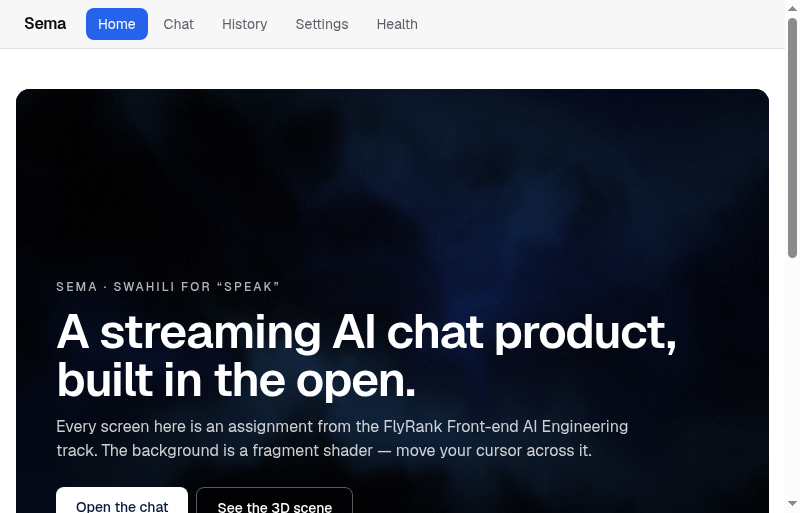
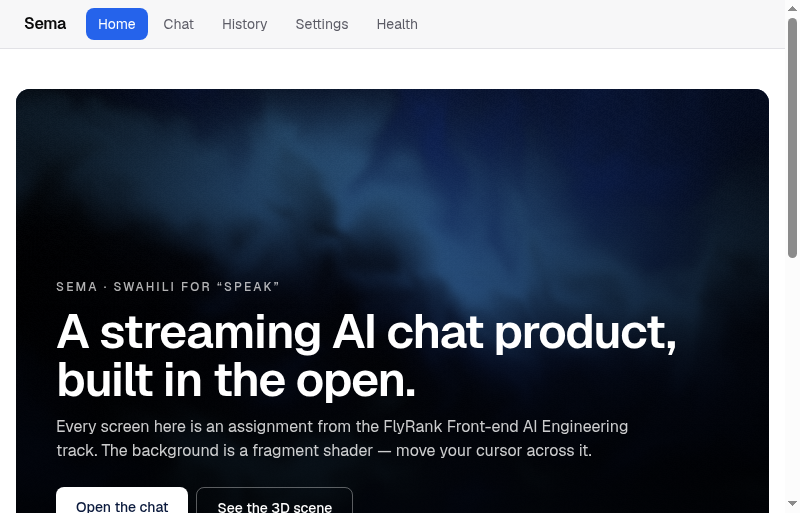
docs: document the shader hero

diff --git a/README.md b/README.md
@@ -67,6 +67,46 @@ MIT — see [LICENSE](LICENSE).
 
 
 
+
+## Shader hero
+
+The home page hero is a GLSL fragment shader on raw WebGL.
+Source: [`components/shader/aurora.frag.ts`](components/shader/aurora.frag.ts)
+(commented block by block) · renderer:
+[`components/shader/shader-hero.tsx`](components/shader/shader-hero.tsx)
+
+![The shader hero](docs/hero.png)
+
+**No three.js.** The scene is one fullscreen triangle and one fragment shader,
+so an engine would add ~265 KB gzipped to draw what the platform draws in about
+60 lines. The component is roughly 2 KB.
+
+**Uniforms — all three.** `u_resolution` normalises coordinates against the
+short edge so the pattern does not stretch when the window changes shape;
+`u_time` advances the flow; `u_mouse` leans the field toward the cursor,
+clamped small so it reads as a response rather than the image sliding about.
+
+**How it works.** A hash gives repeatable pseudo-randomness, value noise
+smooths it, and fbm stacks four octaves for large shape plus fine detail. The
+key move is *domain warping*: fbm is sampled at a position already displaced by
+another fbm, which is what turns smooth blobs into folded, curtain-like
+structure. A sine across the vertical axis with the warped noise added to its
+phase gives the bands; a tighter power of the same term gives the bright
+leading edge that reads as "aurora" rather than "blue gradient". Grain on top
+breaks up 8-bit banding across the slow gradient.
+
+**Fallback and perf, in one line:** device pixel ratio capped at 1.5, the
+render loop stops both when the tab is hidden and when the hero scrolls out of
+view, and `prefers-reduced-motion` never starts WebGL at all — it gets a CSS
+gradient in the same palette, which doubles as the paint before WebGL
+initialises so there is no flash of empty canvas.
+
+**Contrast is designed, not checked afterwards.** The shader's brightest
+possible pixel would leave white text at 2.17:1, so the scrim is weighted
+toward the bottom where the copy sits rather than applied evenly. Worst case is
+**16.23:1** for the headline and **10.10:1** for the body, while the top of the
+frame stays clear so the aurora is still the thing you look at.
+
 ## 3D scene
 
 [`/scene`](https://sema-chat-pi.vercel.app/scene) · source in [`app/scene/`](app/scene)
